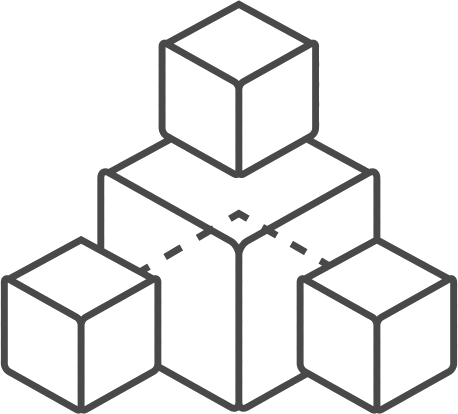
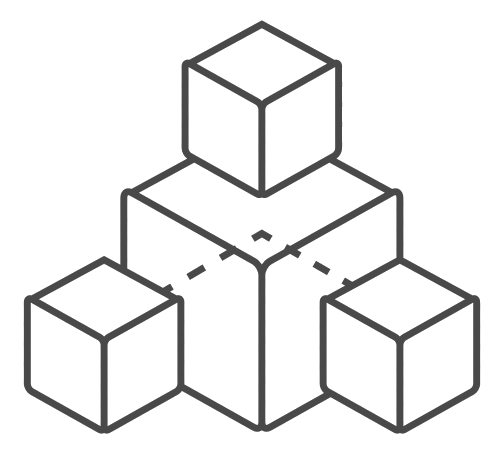
added boxesopen.png changed boes.png added hover on article background image

Changed region(s): [[0.0, 0.0, 1.0, 1.0]]

diff --git a/sass/partials/_linksandresources.scss b/sass/partials/_linksandresources.scss
@@ -82,6 +82,10 @@
   margin-bottom: 50px;
   width: 365px;
   height: 300px;
+
+  &:hover {
+    background-image: url("../img/boxesopen.png");
+  }
 }
 
 .linksandresources__articletext {
